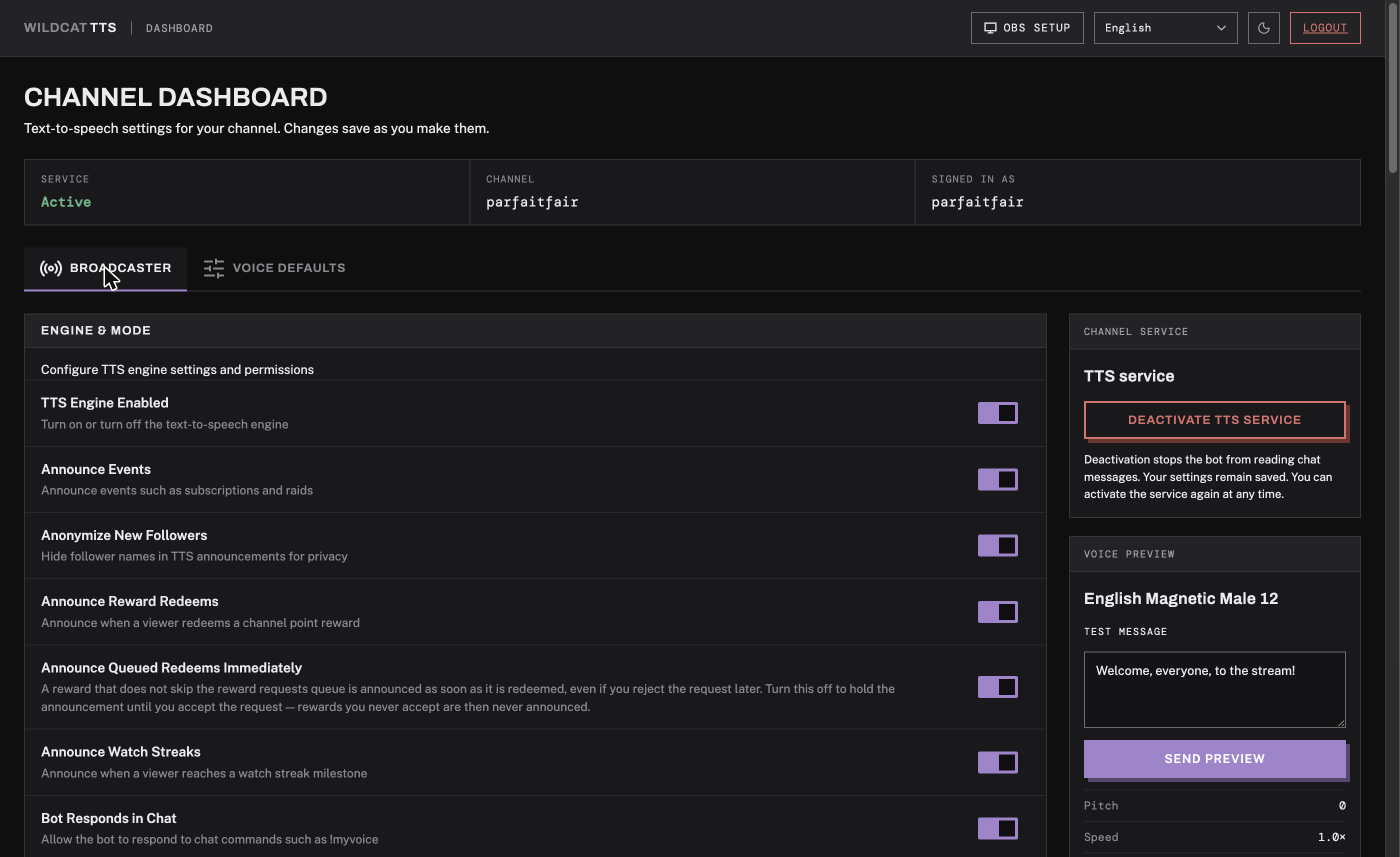
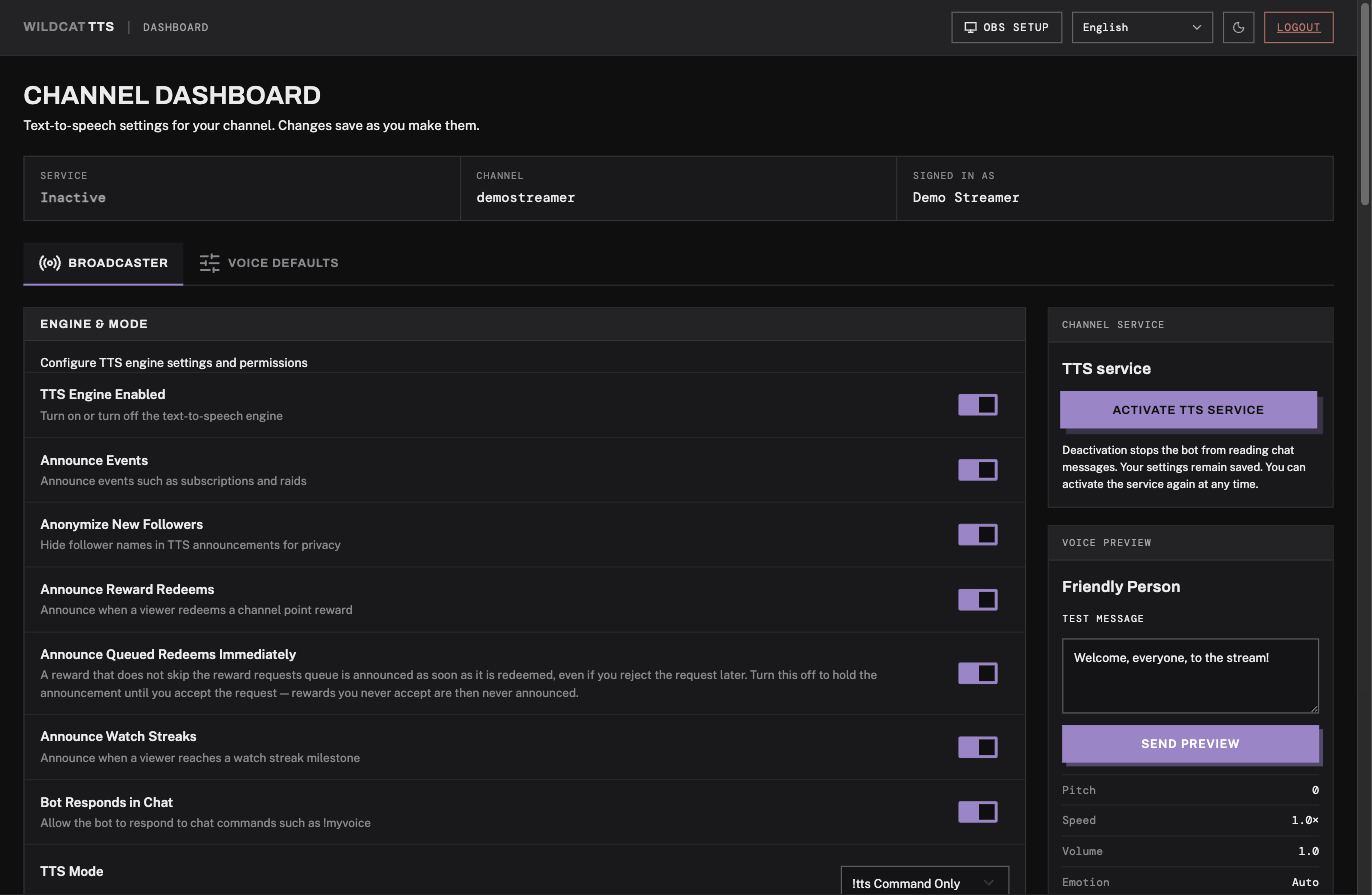
docs: update tutorial screenshots and remove outdated references to ChatVibesTTS

diff --git a/src/blog/posts/getting-started-with-wildcattts.md b/src/blog/posts/getting-started-with-wildcattts.md
@@ -18,13 +18,13 @@ WildcatTTS is invite-only. Send a request through the [contact form](https://par
 
    ![The WildcatTTS landing page. Under the heading "I run the channel" is a purple Manage my channel button; under "I am a viewer" is a Set my own voice button. A notice above them says access is invite-only.](/assets/images/tts-landing.png)
 
-2. Twitch asks you to authorize the app. The permissions cover reading your chat, subs, bits, follows and channel point redemptions, creating a channel point reward on your behalf, and adding the bot as a moderator. Approve it. (The app still appears under its original name, ChatVibesTTS.)
+2. Twitch asks you to authorize the app. The permissions cover reading your chat, subs, bits, follows and channel point redemptions, creating a channel point reward on your behalf, and adding the bot as a moderator. Approve it.
 
-   ![Twitch's authorization screen listing what ChatVibesTTS will be allowed to do: manage channel point rewards and redemptions, grant or remove the moderator role, list subscribers, view Bits information, read followers, and join chat as a bot user. Authorize and Cancel buttons are at the bottom.](/assets/images/tts-twitch-authorize.png)
+   ![Twitch's authorization screen listing what WildcatTTS will be allowed to do: manage channel point rewards and redemptions, grant or remove the moderator role, list subscribers, view Bits information, read followers, and join chat as a bot user. Authorize and Cancel buttons are at the bottom.](/assets/images/tts-twitch-authorize.png)
 
 3. You land on the dashboard. In the **Channel service** card on the right, click **Activate TTS service**.
 
-   ![The WildcatTTS channel dashboard. A status bar shows Service: Active, the channel name, and who is signed in. Below it are Broadcaster and Voice Defaults tabs, with the Engine & Mode card listing toggles for TTS Engine Enabled, Announce Events, Anonymize New Followers and more. The Channel service card on the right shows a Deactivate TTS service button; on a channel that has not been switched on yet, the same button reads Activate TTS service.](/assets/images/tts-dashboard.png)
+   ![The WildcatTTS channel dashboard for a newly approved channel. A status bar shows Service: Inactive, the channel name, and who is signed in. Below it are Broadcaster and Voice Defaults tabs, with the Engine & Mode card listing toggles for TTS Engine Enabled, Announce Events, Anonymize New Followers and more. The Channel service card on the right has a purple Activate TTS service button.](/assets/images/tts-dashboard.png)
 
 Signing in also makes the WildcatTTS account a moderator in your channel, so you do not have to mod it by hand. The bot shows up under "Chat Bots" in your viewer list.
 
